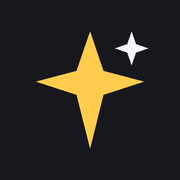
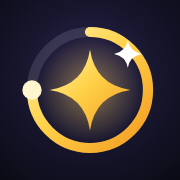
Add files via upload
Post Test Updates

diff --git a/index.html b/index.html
@@ -10,7 +10,8 @@
 <meta name="apple-mobile-web-app-status-bar-style" content="black-translucent">
 <meta name="apple-mobile-web-app-title" content="Shiny Ledger">
 <link rel="manifest" href="manifest.webmanifest">
-<link rel="icon" type="image/png" href="icons/favicon-64.png">
+<link rel="icon" href="favicon.ico" sizes="32x32">
+<link rel="icon" type="image/svg+xml" href="icons/favicon.svg">
 <link rel="apple-touch-icon" href="icons/apple-touch-icon.png">
 <title>Shiny Ledger</title>
 <link rel="preconnect" href="https://fonts.googleapis.com">
@@ -75,7 +76,7 @@ h3{font-size:calc(1.05rem * var(--dscale))}
 .syncpill[data-s="error"] i{background:#ff6b5e;opacity:1}
 .skin-pick{order:4}
 .syncpill[data-s="signedout"]{background:var(--accent);border-color:var(--accent);color:var(--on-accent)}
-.brand svg{width:26px;height:26px;flex:none}
+.brand svg{width:28px;height:28px;flex:none}
 .brand b{font-family:var(--font-display);font-size:calc(1.2rem * var(--dscale));letter-spacing:.02em}
 .tabs{display:flex;gap:4px;flex-wrap:wrap}
 .tabs button{background:none;border:0;color:var(--chrome-ink);opacity:.72;padding:7px 11px;border-radius:7px;cursor:pointer;font-weight:600;font-size:.88rem}
@@ -314,15 +315,27 @@ button,a,.count,.tap{touch-action:manipulation;-webkit-tap-highlight-color:trans
   .toast{bottom:calc(140px + env(safe-area-inset-bottom,0px))}
 }
 /* focus mode */
-.focus{position:fixed;inset:0;z-index:55;background:var(--bg);color:var(--ink);display:grid;grid-template-rows:auto 1fr auto;padding:calc(10px + env(safe-area-inset-top,0px)) 16px calc(14px + env(safe-area-inset-bottom,0px))}
+.focus{position:fixed;inset:0;z-index:55;background:var(--bg);color:var(--ink);display:grid;grid-template-rows:auto minmax(0,1fr) auto;overscroll-behavior:contain;touch-action:manipulation;padding:calc(10px + env(safe-area-inset-top,0px)) 16px calc(14px + env(safe-area-inset-bottom,0px))}
 .focus .ftop{display:flex;gap:10px;align-items:center}
 .focus .ftop .t{min-width:0;margin-right:auto}
 .focus .ftop .t b{display:block;font-family:var(--font-display);font-size:calc(1.3rem * var(--dscale));white-space:nowrap;overflow:hidden;text-overflow:ellipsis}
-.focus .tap{border:0;border-radius:20px;margin:12px 0;background:var(--panel);border:1px solid var(--line);display:grid;place-content:center;justify-items:center;gap:10px;cursor:pointer;color:var(--ink);user-select:none;-webkit-user-select:none;padding:16px}
-.focus .tap:active{background:var(--panel2)}
-.focus .fcount{font-family:var(--font-display);font-weight:700;font-size:calc(clamp(4.5rem,24vw,10rem) * var(--dscale));line-height:1;font-variant-numeric:tabular-nums}
-.focus .fpct{font-family:var(--font-display);font-weight:700;font-size:calc(1.6rem * var(--dscale));color:var(--spark)}
+.focus .fmid{display:grid;justify-items:center;align-content:center;gap:clamp(10px,2.4vh,22px);padding-block:8px;min-height:0}
+.focus .fread{display:grid;justify-items:center;gap:4px;text-align:center}
+.focus .fcount{font-family:var(--font-display);font-weight:700;font-size:calc(clamp(3.6rem,17vw,7.5rem) * var(--dscale));line-height:1;font-variant-numeric:tabular-nums}
+.focus .fpct{font-family:var(--font-display);font-weight:700;font-size:calc(1.45rem * var(--dscale));color:var(--spark);font-variant-numeric:tabular-nums}
+.focus .fbar{width:min(260px,70vw);height:6px;border-radius:99px;background:var(--panel2);overflow:hidden;border:1px solid var(--line)}
+.focus .fbar i{display:block;height:100%;background:var(--spark);transition:width .2s ease}
 .focus .hint{font-size:.82rem;color:var(--muted)}
+.upbtn{--sz:min(64vw,44vh,300px);width:var(--sz);height:var(--sz);border-radius:50%;border:0;padding:0;cursor:pointer;display:grid;place-items:center;
+  background:radial-gradient(circle at 50% 35%,color-mix(in srgb,var(--accent) 78%,#fff) 0%,var(--accent) 62%,color-mix(in srgb,var(--accent) 78%,#000) 100%);
+  color:var(--on-accent);box-shadow:0 10px 0 color-mix(in srgb,var(--accent) 55%,#000),0 18px 40px rgba(0,0,0,.28);
+  touch-action:none;user-select:none;-webkit-user-select:none;-webkit-touch-callout:none;-webkit-tap-highlight-color:transparent;
+  transition:transform .06s ease,box-shadow .06s ease;position:relative}
+.upbtn svg{width:46%;height:46%;pointer-events:none}
+.upbtn .stepn{position:absolute;bottom:15%;font-family:var(--font-mono);font-weight:600;font-size:1rem;opacity:.85;pointer-events:none}
+.upbtn.down{transform:translateY(8px);box-shadow:0 2px 0 color-mix(in srgb,var(--accent) 55%,#000),0 6px 16px rgba(0,0,0,.25)}
+.upbtn:disabled{opacity:.4;cursor:not-allowed}
+.upbtn:focus-visible{outline:3px solid var(--spark);outline-offset:6px}
 .focus .fbot{display:flex;gap:8px;flex-wrap:wrap}
 .focus .fbot .btn{flex:1;min-height:50px;min-width:0}
 .focus .fchain{display:flex;gap:8px;align-items:center;width:100%;justify-content:center;flex-wrap:wrap}
@@ -333,7 +346,7 @@ button,a,.count,.tap{touch-action:manipulation;-webkit-tap-highlight-color:trans
 <header class="chrome">
   <div class="chrome-in">
     <div class="brand">
-      <svg viewBox="0 0 32 32" aria-hidden="true"><path d="M16 2l3.2 9.4L29 14l-9.8 3.2L16 30l-3.2-12.8L3 14l9.8-2.6z" fill="var(--star, var(--spark))"/><path d="M26 2l1 3 3 1-3 1-1 3-1-3-3-1 3-1z" fill="var(--chrome-ink)" opacity=".8"/></svg>
+      <svg viewBox="0 0 32 32" aria-hidden="true"><circle cx="16" cy="16" r="12.5" fill="none" stroke="var(--chrome-ink)" stroke-opacity=".18" stroke-width="3"/><path d="M16 3.5A12.5 12.5 0 1 1 3.5 16" fill="none" stroke="var(--star, var(--spark))" stroke-width="3" stroke-linecap="round"/><circle cx="3.5" cy="16" r="2.6" fill="var(--chrome-ink)"/><path d="M16 7.4Q17.1 14.9 24.6 16Q17.1 17.1 16 24.6Q14.9 17.1 7.4 16Q14.9 14.9 16 7.4Z" fill="var(--star, var(--spark))"/></svg>
       <b>Shiny Ledger</b>
     </div>
     <button class="syncpill" id="syncBtn" type="button" data-s="local"><i></i><span>This device</span></button>
@@ -692,7 +705,7 @@ function afterRemote(){
   persistLocal();
   const a=document.activeElement;
   if(a&&(a.id==='notesIn'||a.id==='phaseIn'||a.id==='setCount')&&!$('#modalRoot').firstChild){renderSync();return}
-  renderHunts();if(S.focus)renderFocus();
+  renderHunts();if(S.focus)updateFocus();
 }
 
 function pickDefault(){const a=sortedHunts('active');return a.length?a[0].id:(S.hunts.size?[...S.hunts.keys()][0]:null)}
@@ -906,27 +919,60 @@ document.addEventListener('change',async e=>{if(e.target.id==='wakeChk'){Wake.wa
 function buzz(ms){try{navigator.vibrate&&navigator.vibrate(ms)}catch(e){}}
 function openFocus(){if(!cur())return;S.focus=true;Wake.auto++;Wake.sync();renderFocus()}
 function closeFocus(){if(!S.focus)return;S.focus=false;Wake.auto=Math.max(0,Wake.auto-1);Wake.sync();$('#focusRoot').innerHTML='';renderHunts()}
+function focusChain(h,m){return m&&m.chain?`<div class="fchain"><span class="eyebrow">${esc(m.chain)}</span><button class="btn" style="flex:0 0 auto" data-act="chain" data-n="-1" aria-label="Lower chain">−</button><b class="mono" id="fchainv" style="font-size:1.2rem;min-width:2ch;text-align:center">${h.chain||0}</b><button class="btn" style="flex:0 0 auto" data-act="chain" data-n="1" aria-label="Raise chain">+</button><button class="btn ghost danger" style="flex:0 0 auto" data-act="chainbreak">Chain broke</button></div>`:''}
 function renderFocus(){
   const root=$('#focusRoot');const h=cur();
   if(!S.focus||!h){root.innerHTML='';return}
   const g=GAMES[h.game],m=METHOD[h.method],o=huntOdds(h),c=h.count||0,step=h.step||1,done=h.status==='complete';
-  const cp=o.p?cum(o.p,c):0;
+  const odds=!!(o.p&&!o.target),cp=odds?cum(o.p,c):0;
+  root.dataset.key=[h.id,h.status,step,h.method,h.game].join('|');
   root.innerHTML=`<div class="focus" role="dialog" aria-modal="true" aria-label="Focus mode">
     <div class="ftop"><div class="t"><b>${esc(h.target)}</b><span class="muted" style="font-size:.85rem">${esc(g?g.s:'')} · ${esc(m?m.n:'')} · ${o.target?'RNG attempts':fmtDen(o.p)}</span></div>
       <button class="btn" data-act="focusclose">Done</button></div>
-    <button class="tap" data-act="bump" data-n="${step}" ${done?'disabled':''} aria-label="Add ${step}">
-      <span class="fcount" id="fcount">${num(c)}</span>
-      ${o.p&&!o.target?`<span class="fpct">${pct(cp)}</span><span class="hint">of hunters would have found it by now</span>`:''}
-      <span class="hint">${done?'Shiny found':`Tap anywhere to add ${step}`}</span>
-    </button>
+    <div class="fmid">
+      <div class="fread" aria-live="polite">
+        <span class="fcount" id="fcount">${num(c)}</span>
+        ${odds?`<span class="fpct" id="fpct">${pct(cp)}</span><div class="fbar"><i id="fbar" style="width:${(cp*100).toFixed(2)}%"></i></div><span class="hint">of hunters would have found it by now</span>`:`<span class="hint">${o.target?'attempts':'encounters'}</span>`}
+      </div>
+      <button class="upbtn" id="upBtn" type="button" ${done?'disabled':''} aria-label="Add ${step}">
+        <svg viewBox="0 0 24 24" fill="none" stroke="currentColor" stroke-width="2.6" stroke-linecap="round" stroke-linejoin="round" aria-hidden="true"><path d="M12 20V5M5 11.5 12 4.5l7 7"/></svg>
+        <span class="stepn">+${step}</span>
+      </button>
+      ${done?'<span class="hint">Shiny found</span>':''}
+    </div>
     <div class="fbot">
-      ${m&&m.chain?`<div class="fchain"><span class="eyebrow">${esc(m.chain)}</span><button class="btn" style="flex:0 0 auto" data-act="chain" data-n="-1" aria-label="Lower chain">−</button><b class="mono" style="font-size:1.2rem">${h.chain||0}</b><button class="btn" style="flex:0 0 auto" data-act="chain" data-n="1" aria-label="Raise chain">+</button><button class="btn ghost danger" style="flex:0 0 auto" data-act="chainbreak">Chain broke</button></div>`:''}
+      ${focusChain(h,m)}
       <button class="btn" data-act="bump" data-n="-1" ${done?'disabled':''}>−1</button>
-      <button class="btn" data-act="timer">${h.runningSince?'Pause timer':'Start timer'}</button>
+      <button class="btn" id="ftimer" data-act="timer">${h.runningSince?'Pause timer':'Start timer'}</button>
       ${done?'':`<button class="btn" data-act="found" style="border-color:var(--spark)">★ Found</button>`}
     </div></div>`;
+  wireUpBtn();
 }
-function touch(h,full=true){Store.save(h);if(full){renderHunts();if(S.focus)renderFocus()}}
+/* Update numbers in place so the button under your thumb is never replaced mid-tap. */
+function updateFocus(){
+  const root=$('#focusRoot');const h=cur();
+  if(!S.focus||!h||!root.firstChild){renderFocus();return}
+  if(root.dataset.key!==[h.id,h.status,h.step||1,h.method,h.game].join('|')){renderFocus();return}
+  const o=huntOdds(h),c=h.count||0;
+  const fc=$('#fcount');if(fc)fc.textContent=num(c);
+  if(o.p&&!o.target){const cp=cum(o.p,c);const fp=$('#fpct');if(fp)fp.textContent=pct(cp);const fb=$('#fbar');if(fb)fb.style.width=(cp*100).toFixed(2)+'%'}
+  const ch=$('#fchainv');if(ch)ch.textContent=h.chain||0;
+  const ft=$('#ftimer');if(ft)ft.textContent=h.runningSince?'Pause timer':'Start timer';
+}
+function wireUpBtn(){
+  const b=$('#upBtn');if(!b)return;
+  let skipClick=false;
+  const press=()=>{const h=cur();if(!h)return;bump(h.step||1)};
+  b.addEventListener('pointerdown',e=>{
+    if(e.button!==0||b.disabled)return;
+    e.preventDefault();skipClick=true;b.classList.add('down');press();
+  });
+  const up=()=>b.classList.remove('down');
+  b.addEventListener('pointerup',up);b.addEventListener('pointercancel',up);b.addEventListener('pointerleave',up);
+  b.addEventListener('click',e=>{e.preventDefault();if(skipClick){skipClick=false;return}press()}); // keyboard Enter/Space
+  b.addEventListener('contextmenu',e=>e.preventDefault());
+}
+function touch(h,full=true){Store.save(h);if(full){renderHunts();if(S.focus)updateFocus()}}
 function bump(n){
   const h=cur();if(!h||h.status==='complete')return;
   h.count=Math.max(0,(h.count||0)+n);

diff --git a/sw.js b/sw.js
@@ -1,8 +1,8 @@
 // Shiny Ledger service worker: the app opens and counts with no signal.
 // Bump VERSION whenever you deploy so phones pick up the new files.
-const VERSION = 'shiny-ledger-v4';
+const VERSION = 'shiny-ledger-v5';
 const SHELL = ['./','index.html','config.js','manifest.webmanifest','vendor/supabase.js','vendor/591.supabase.js',
-  'icons/icon-192.png','icons/icon-512.png','icons/maskable-512.png','icons/apple-touch-icon.png','icons/favicon-64.png'];
+  'icons/icon-192.png','icons/icon-512.png','icons/maskable-512.png','icons/apple-touch-icon.png','icons/favicon-64.png','icons/favicon-32.png','icons/favicon-16.png','icons/favicon.svg','favicon.ico'];
 
 self.addEventListener('install', e => {
   e.waitUntil(caches.open(VERSION).then(c => c.addAll(SHELL)).then(() => self.skipWaiting()));
